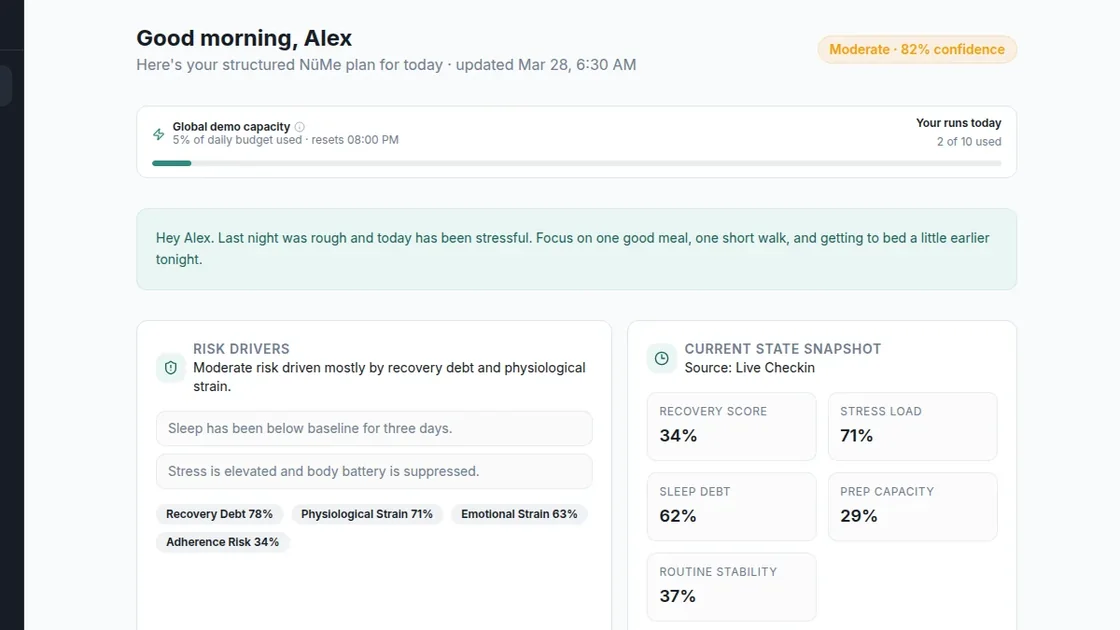
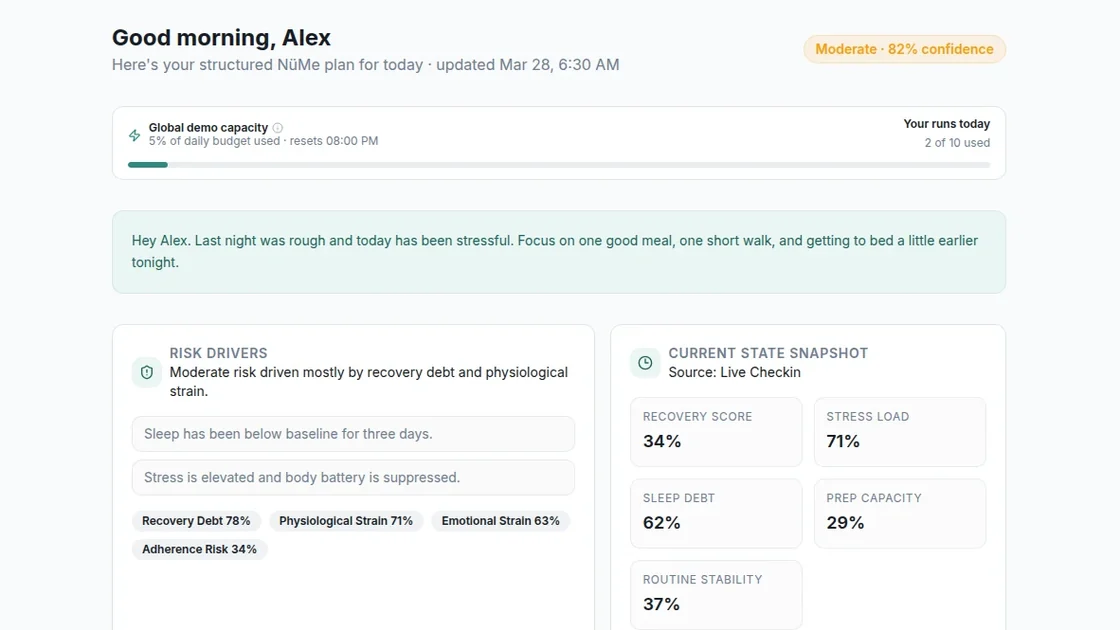
Lead the featured section with Orbit

diff --git a/src/data/featured.ts b/src/data/featured.ts
@@ -1,5 +1,23 @@
 export const featured = [
   {
+    id: "orbit",
+    summary: "A personal workspace for tasks, AI, research and finances.",
+    image: {
+      src: "/assets/shots/orbit-featured.webp",
+      width: 1120,
+      height: 650,
+      alt: "Orbit task planner with a week strip, day cards and navigation for Chat, Library and Finances, using invented data.",
+    },
+    contribution:
+      "I built Orbit with Python, SQLite and native web interfaces.",
+    hook: "It runs on my homelab, so I can pick up the same work from my phone, laptop or PC.",
+    how: [
+      "Task capture keeps planned dates, deadlines and reminders separate.",
+      "Chat connects to native Codex and Claude Code sessions, with app previews beside the conversation.",
+      "Library keeps versioned sources and cited notes; Finances brings accounts, spending and savings into focused views.",
+    ],
+  },
+  {
     id: "homelab",
     summary: "A personal cloud for projects, AI tools and everyday services.",
     image: {

diff --git a/src/styles/home.css b/src/styles/home.css
@@ -248,7 +248,7 @@ section {
   color: var(--ink);
 }
 
-/* Selected work: one image edge and a shared crop ratio. */
+/* Selected work: a full-width lead above the paired cards. */
 .work {
   padding-bottom: 112px;
 }
@@ -263,6 +263,13 @@ section {
   display: flex;
   flex-direction: column;
   min-width: 0;
+}
+.work-card-lead {
+  grid-column: 1 / -1;
+}
+.work-card-lead .work-stage {
+  aspect-ratio: 1120 / 650;
+  border-radius: 0;
 }
 .work-card:has(.work-more.is-expanded) {
   z-index: 3;
@@ -386,6 +393,7 @@ section {
 }
 .work-more:not(.info-enhanced)[open] {
   width: 100%;
+  max-width: 560px;
 }
 .info-enhanced {
   overflow: visible;

diff --git a/src/scripts/home.ts b/src/scripts/home.ts
@@ -643,10 +643,11 @@ document
     function availableWidth() {
       const parent = details.parentElement!,
         style = getComputedStyle(parent);
-      return (
+      return Math.min(
+        560,
         parent.clientWidth -
-        parseFloat(style.paddingLeft) -
-        parseFloat(style.paddingRight)
+          parseFloat(style.paddingLeft) -
+          parseFloat(style.paddingRight),
       );
     }
     // Measure once per transition or resize. Frames only write transforms/opacity.

diff --git a/src/content/projects/orbit.md b/src/content/projects/orbit.md
@@ -17,7 +17,7 @@ tools:
     "Tailscale",
   ]
 order: 0
-featured: false
+featured: true
 status: "Private application"
 visual: "code"
 ---
